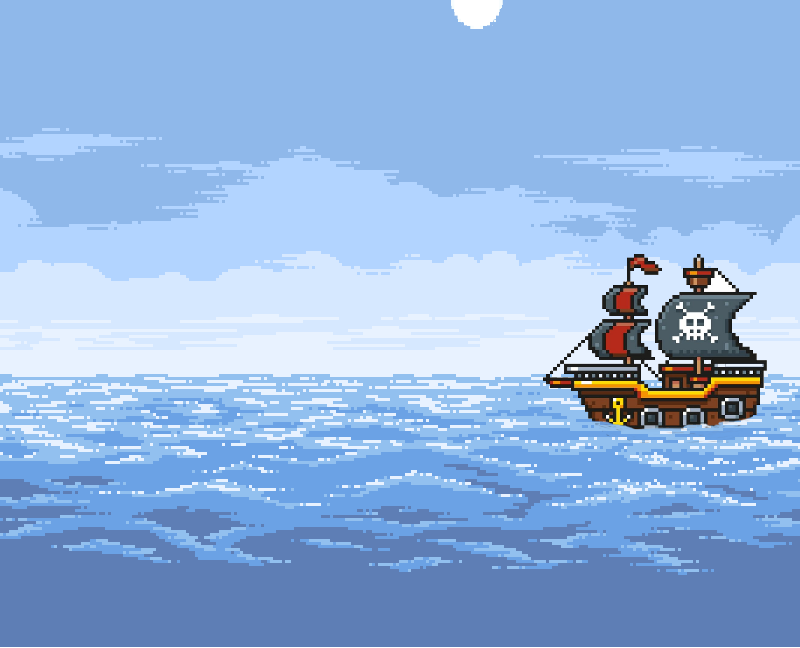
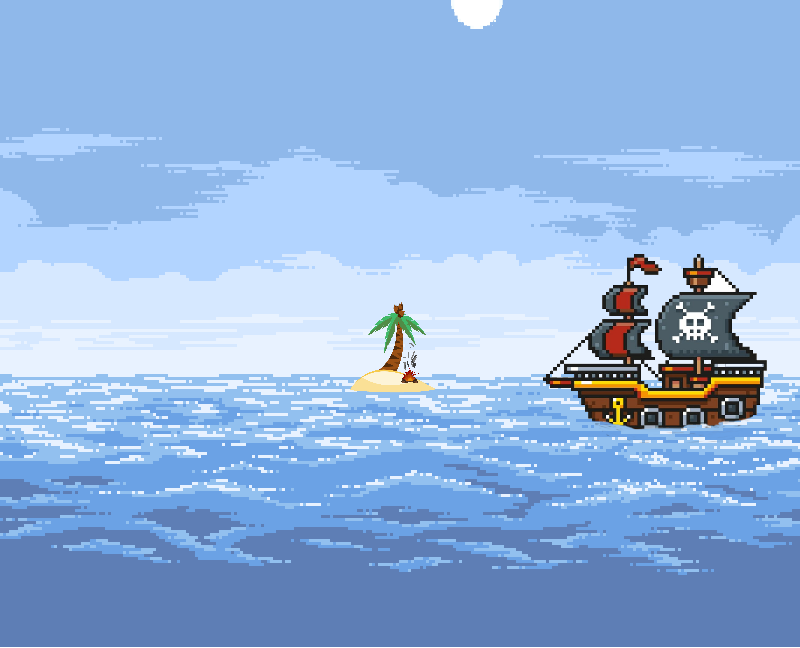
Добавленно солнце и облака

Changed region(s): [[0.4375, 0.463, 0.5312, 0.6173]]

diff --git a/Game.py b/Game.py
@@ -4,7 +4,7 @@ import pygame
 
 pygame.init()
 
-display_width = 800
+display_width = 1100
 display_height = 600
 MOVE_SPEED = 7
 
@@ -32,6 +32,10 @@ JUMPING = [pygame.image.load(os.path.join("Assets/Ship", "Gj1.png")),
 SMALL_LANDS = [pygame.image.load(os.path.join("Assets/lands", "Островок.png")),
                pygame.image.load(os.path.join("Assets/lands", "Островок2.png")),
                pygame.image.load(os.path.join("Assets/lands", "Островок3.png"))]
+
+CLOUD = pygame.image.load(os.path.join("Assets/Other", "Cloud.png"))
+
+SAN = pygame.image.load(os.path.join("Assets/Other", "San.png"))
 
 BG = pygame.image.load(os.path.join("Assets/Other", "Море.png"))
 
@@ -94,6 +98,41 @@ class Ship:
         SCREEN.blit(self.image, (self.dino_rect.x, self.dino_rect.y))
 
 
+class San:
+    def __init__(self):
+        self.x = random.randint(800, 1000)
+        self.y = random.randint(50, 100)
+        self.image = SAN
+        self.width = self.image.get_width()
+
+    def update(self):
+        self.x += game_speed // 200
+        if self.x < -self.width:
+            self.x = SCREEN_WIDTH + random.randint(2500, 3000)
+            self.y = random.randint(50, 100)
+
+    def draw(self, SCREEN):
+        SCREEN.blit(self.image, (self.x, -50))
+
+
+
+class Cloud:
+    def __init__(self):
+        self.x = SCREEN_WIDTH + random.randint(800, 1000)
+        self.y = random.randint(50, 100)
+        self.image = CLOUD
+        self.width = self.image.get_width()
+
+    def update(self):
+        self.x -= game_speed
+        if self.x < -self.width:
+            self.x = SCREEN_WIDTH + random.randint(2500, 3000)
+            self.y = random.randint(50, 100)
+
+    def draw(self, SCREEN):
+        SCREEN.blit(self.image, (self.x, self.y))
+
+
 class Obstacle:
     def __init__(self, image, type):
         self.image = image
@@ -122,6 +161,8 @@ def play():
     run = True
     clock = pygame.time.Clock()
     player = Ship()
+    cloud = Cloud()
+    san = San()
     game_speed = 20
     x_pos_bg = 0
     y_pos_bg = 380
@@ -175,6 +216,12 @@ def play():
                 menu(death_count)
 
         background()
+
+        cloud.draw(SCREEN)
+        cloud.update()
+
+        san.draw(SCREEN)
+        san.update()
 
         score()
 
@@ -295,7 +342,7 @@ class SoundButton(pygame.sprite.Sprite):
         self.image = SoundButton.image
         self.rect = self.image.get_rect()
         while True:
-            self.rect.topleft = (700, 500)
+            self.rect.topleft = (1000, 500)
             if len(pygame.sprite.spritecollide(self, all_sprites, False)) == 1:
                 break
 
